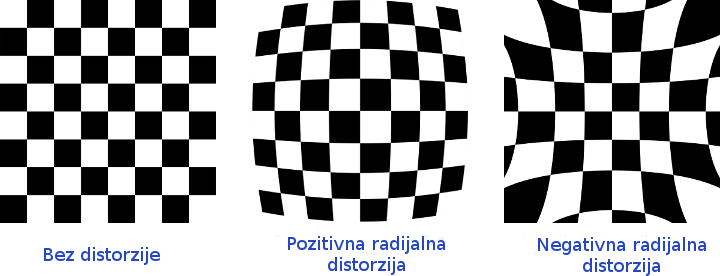
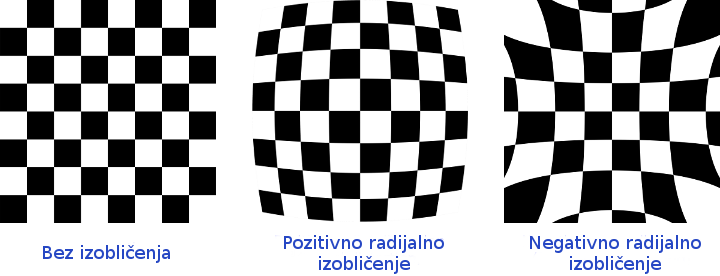
Distorzija -> izobličenje

Changed region(s): [[0.3972, 0.8406, 0.6417, 1.0], [0.7333, 0.8406, 1.0, 1.0], [0.0611, 0.8696, 0.2444, 0.9565]]

diff --git a/paper/bunjevac17bs.tex b/paper/bunjevac17bs.tex
@@ -59,7 +59,7 @@ Lokalne metode se temelje na promatranju lokalne okoline svakog pojedinog piksel
 Postupak rekonstrukcije tada se svodi na traženje najsličnijeg okna na drugoj slici. Važno je naglasiti kako se traženje vrši samo duž epipolarne linije.
 Za razliku od lokalnih, globalne metode rekonstrukciju rade pomoću svih piksela slike što intuitivno dovodi do zaključka da je postupak složeniji i zahtijeva više računalnih resursa.
 
-Metoda poluglobalnog podudaranja, koju ćemo detaljnije obrađivati u ovom radu, može se svrstati negdje između. Naime, ona kao ulaz prima izračunate korespondencije lokalnih metoda, a zatim radi optimizaciju nad pikselima duž iste linije u osam ili šesnaest smjerova.
+Metoda poluglobalnog podudaranja, koju ćemo detaljnije obrađivati u ovom radu, može se svrstati negdje između. Naime, ona kao ulaz prima izračunate korespondencije lokalnih metoda, a zatim optimira glatkoću rekonstrukcije nad pikselima duž iste linije u osam ili šesnaest smjerova.
 Takva optimizacije dovodi do kvalitetnijih rezultata u dijelovima gdje dolazi do nagle promjene u dubini scene.
 
 U sljedećem poglavlju ćemo ukratko objasniti postupke kalibracije stereo sustava te rektifikacije parova slika kao predradnja postupku rekonstrukcije.
@@ -90,7 +90,7 @@ $Z$ osi na udaljenosti $z = f$ nalazi se projekcijska ravnina okomita na naveden
 ili slike određen osima $(u, v)$ je smješten tako da mu je ishodište u gornjem lijevom kutu slike.
 
 Postupak stvaranja slike si možemo predočiti tako da zamislimo da za svaki piksel slike ispucamo
-zraku koja ide iz globalnog ishodišta (kamere), prolazi kroz ravninu projekcije i ide sve dok ne pogodi neki najbliži vidljivi predmet. Boju u pogođenoj točki preslikavamo na ravninu projekciju, i to u točki sjecišta ispucane zrake i ravnine.
+zraku koja ide iz globalnog ishodišta (kamere), prolazi kroz ravninu projekcije i ide sve dok ne pogodi neki najbliži vidljivi predmet. Boju u pogođenoj točki preslikavamo na ravninu projekcije, i to u točki sjecišta ispucane zrake i ravnine.
 
 Naravno, ovo je vrlo rudimentaran model i u stvarnosti je postupak puno kompleksniji jer nismo
 uzeli u obzir valna svojstva svjetlosti već smo pretpostavili da se svjetlost širi pravocrtno.
